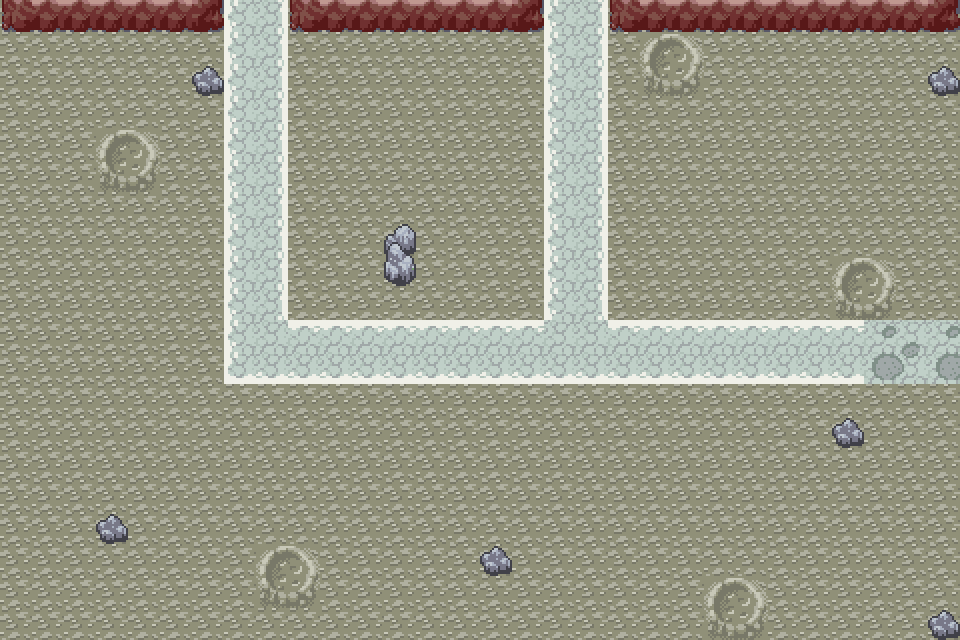
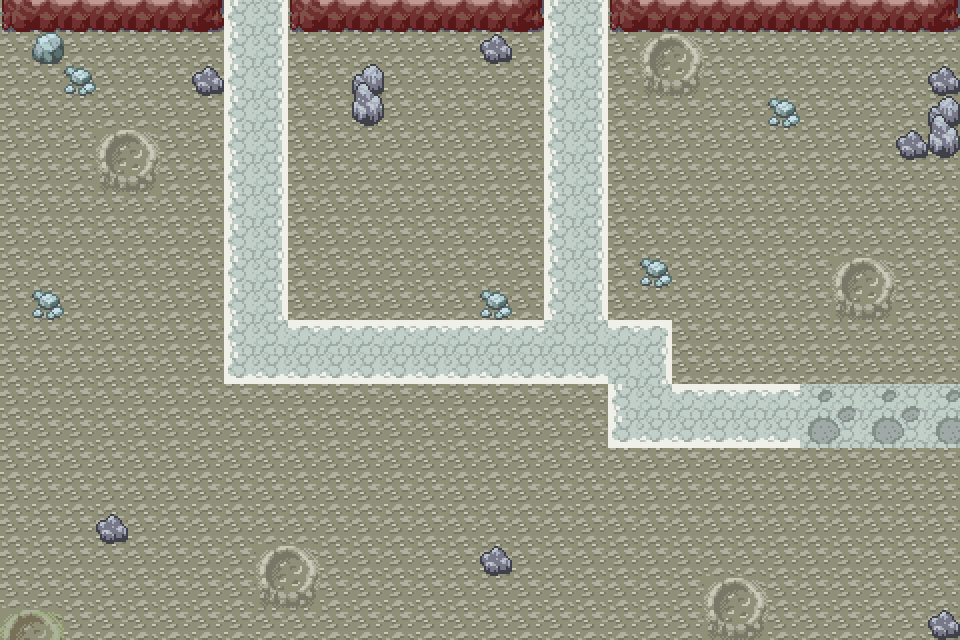
array level4 con doble9 para registrar ataque

diff --git a/Level3.cpp b/Level3.cpp
@@ -29,9 +29,9 @@ Level3::Level3()
 	_timeBetweenWaves = 2;
 	_waveClock.restart();
 	_enemyClock.restart();
-	_hackerStartPosition = { 960 / 32 * 9, 640 / 32 * 0.5 };
+	_hackerStartPosition = { 960 / 32 * 9, 640 / 32 * 0 };
 	_hackerStartPosition1 = { 960 / 32 * 9, 640 / 32 * 0.5 };
-	_hackerStartPosition2 = { 960 / 32 * 20, 640 / 32 * 0.5 };
+	_hackerStartPosition2 = { 960 / 32 * 20, 640 / 32 * 0 };
 
 	_idLevel = 2;
 	_finishedLevel = false;
@@ -45,15 +45,15 @@ Level3::Level3()
 {0,0,0,0,0,0,0,0,1,0,0,0,0,0,0,0,0,0,1,0,0,6,0,0,0,0,0,0,0,0,},
 {0,0,0,0,0,0,0,0,1,0,0,0,0,0,0,0,0,0,1,0,0,0,0,0,0,0,0,0,0,0,},
 {0,0,0,0,0,0,0,0,1,0,0,6,0,0,0,0,0,0,1,0,0,0,0,0,0,0,0,0,0,0,},
-{0,0,0,0,0,0,0,0,1,0,0,0,0,0,0,6,0,0,1,0,0,0,0,0,0,0,6,0,0,0,},
-{0,0,0,0,0,6,0,0,1,0,0,0,0,0,0,0,0,0,1,0,0,0,0,0,0,0,0,0,0,0,},
-{0,0,0,0,0,0,0,0,1,0,0,0,0,0,0,0,0,0,1,0,0,0,0,0,0,0,2,0,0,9,},
-{0,0,0,0,0,0,0,0,2,1,1,1,1,1,1,1,1,1,2,1,1,1,1,1,1,1,2,1,1,9,},
-{0,0,0,0,0,0,0,0,0,0,0,0,0,0,0,0,0,0,0,0,0,0,0,0,0,0,2,0,0,9,},
+{0,0,0,0,0,0,0,0,1,0,0,0,0,0,0,6,0,0,1,0,0,0,0,0,0,0,0,0,0,0,},
+{0,0,0,0,0,6,0,0,1,0,0,0,0,0,0,0,0,0,1,0,0,0,0,0,0,6,0,0,0,0,},
+{0,0,0,0,0,0,0,0,1,0,0,0,0,0,0,0,0,0,1,0,0,0,0,0,0,0,0,0,0,0,},
+{0,0,0,0,0,0,0,0,2,1,1,1,1,1,1,1,1,1,2,1,4,0,0,0,0,0,0,0,0,0,},
+{0,0,0,0,0,0,0,0,0,0,0,0,0,0,0,0,0,0,0,0,1,0,0,0,0,0,0,0,0,0,},
+{0,0,0,0,0,0,0,0,0,0,0,0,0,0,0,0,0,0,0,0,2,1,1,1,1,1,2,1,1,9,},
+{0,0,0,0,0,0,0,0,0,0,0,0,6,0,0,0,0,0,0,0,0,0,0,0,0,0,0,0,0,0,},
 {0,0,0,0,0,0,0,0,0,0,0,0,0,0,0,0,0,0,0,0,0,0,0,0,0,0,0,0,0,0,},
-{0,0,0,0,0,0,0,0,0,0,0,0,6,0,0,0,0,0,0,6,0,0,0,0,0,0,0,0,0,0,},
-{0,0,0,0,0,0,0,0,0,0,0,0,0,0,0,0,0,0,0,0,0,0,0,0,0,0,0,0,0,0,},
-{0,0,0,0,0,0,0,0,0,0,0,0,0,0,0,0,0,0,0,0,0,0,0,0,0,0,0,0,0,0,},
+{0,0,0,0,0,0,0,0,0,0,0,0,0,0,0,0,0,0,0,6,0,0,0,0,0,0,0,0,0,0,},
 {0,0,0,0,0,0,0,0,0,0,0,0,0,0,0,0,0,0,0,0,0,0,0,0,0,0,0,0,0,0,},
 {0,0,0,0,0,0,0,0,0,0,0,0,0,0,0,0,0,0,0,0,0,0,0,0,0,0,0,0,0,0,},
 {0,0,0,0,0,0,0,0,0,0,0,0,0,0,0,0,0,0,0,0,0,0,0,0,0,0,0,0,0,0,},
@@ -67,7 +67,7 @@ Level3::Level3()
 	};
 	_UTN.setSize(sf::Vector2f(200, 173));
 	_UTN.setTexture(&_textureUTN);
-	_UTN.setPosition(sf::Vector2f(950, 350));
+	_UTN.setPosition(sf::Vector2f(950, 400));
 	_UTN.setOrigin(_UTN.getGlobalBounds().width / 2, _UTN.getGlobalBounds().height / 2);
 
 	if (!_textureUTNRed.loadFromFile("img/towers/facuRed.png")) {
@@ -75,7 +75,7 @@ Level3::Level3()
 	};
 	_UTNRed.setSize(sf::Vector2f(200, 173));
 	_UTNRed.setTexture(&_textureUTNRed);
-	_UTNRed.setPosition(sf::Vector2f(950, 350));
+	_UTNRed.setPosition(sf::Vector2f(950, 400));
 	_UTNRed.setOrigin(_UTNRed.getGlobalBounds().width / 2, _UTNRed.getGlobalBounds().height / 2);
 
 	setSpots(arr, _spots, 7);

diff --git a/Level4.cpp b/Level4.cpp
@@ -39,14 +39,14 @@ Level4::Level4()
 {0,0,0,1,0,0,0,0,0,0,0,1,0,0,0,0,0,0,0,0,0,0,0,0,1,0,0,0,0,0},
 {0,0,0,1,0,0,0,0,0,0,0,1,0,0,0,0,0,0,0,0,0,0,0,0,1,0,0,0,0,0},
 {0,0,0,1,0,0,0,0,6,0,0,1,0,0,0,0,0,0,0,0,0,0,0,0,1,0,0,0,0,0},
-{0,0,0,1,0,0,0,0,0,0,0,1,0,0,0,0,0,0,0,0,0,6,0,0,2,1,1,1,1,9},
-{0,0,0,1,0,0,0,0,0,0,0,1,0,0,0,0,0,0,0,0,0,0,0,0,0,0,0,0,0,0},
+{0,0,0,1,0,0,0,0,0,0,0,1,0,0,0,0,0,0,0,0,0,6,0,0,2,1,1,1,9,9},
+{0,0,0,1,0,0,0,0,0,0,0,1,0,0,0,0,0,0,0,0,0,0,0,0,0,0,0,0,0,9},
 {0,0,0,2,1,1,1,1,1,1,1,3,0,0,0,0,0,0,0,0,0,0,0,0,0,0,0,0,0,0},
 {0,0,0,0,0,0,0,0,0,0,0,0,0,0,0,0,0,0,0,0,0,0,0,0,0,0,0,0,0,0},
 {0,0,0,0,0,0,0,0,0,0,0,0,0,0,0,0,0,0,0,0,0,0,0,0,0,0,0,0,0,0},
 {0,0,0,0,0,0,0,0,0,0,0,0,0,0,0,0,0,0,0,0,0,0,0,0,0,0,0,0,0,0},
 {0,0,0,0,0,0,0,0,0,0,0,0,0,0,0,0,0,0,0,0,0,0,0,0,0,0,0,0,0,0},
-{0,0,0,0,0,0,0,0,0,0,0,0,0,0,0,0,0,0,0,0,0,0,0,0,0,0,0,0,0,0}
+{0,0,0,0,0,0,0,0,0,0,0,0,0,0,0,0,0,0,0,0,0,0,0,0,0,0,0,0,0,0},
 	};
 	setMapArray(arr);
 
